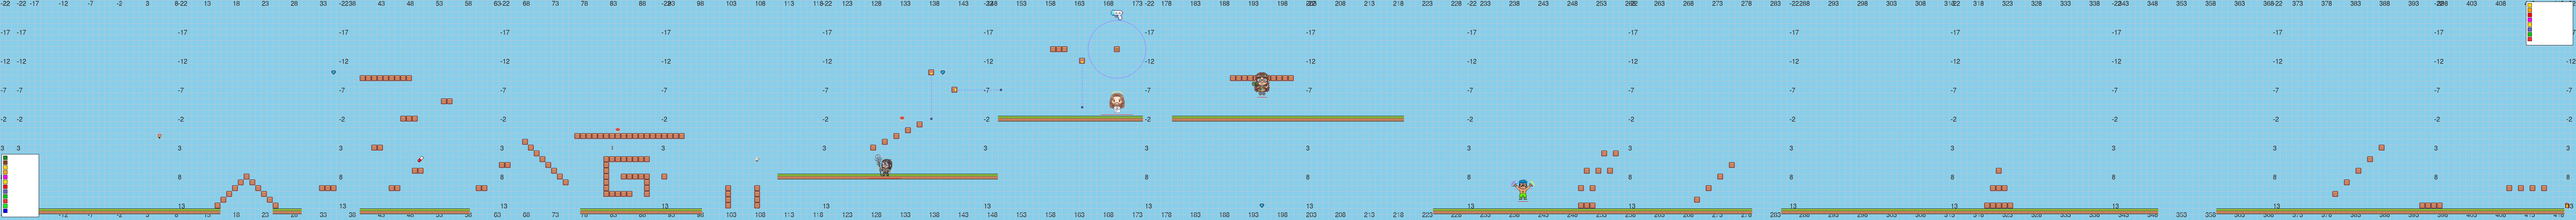
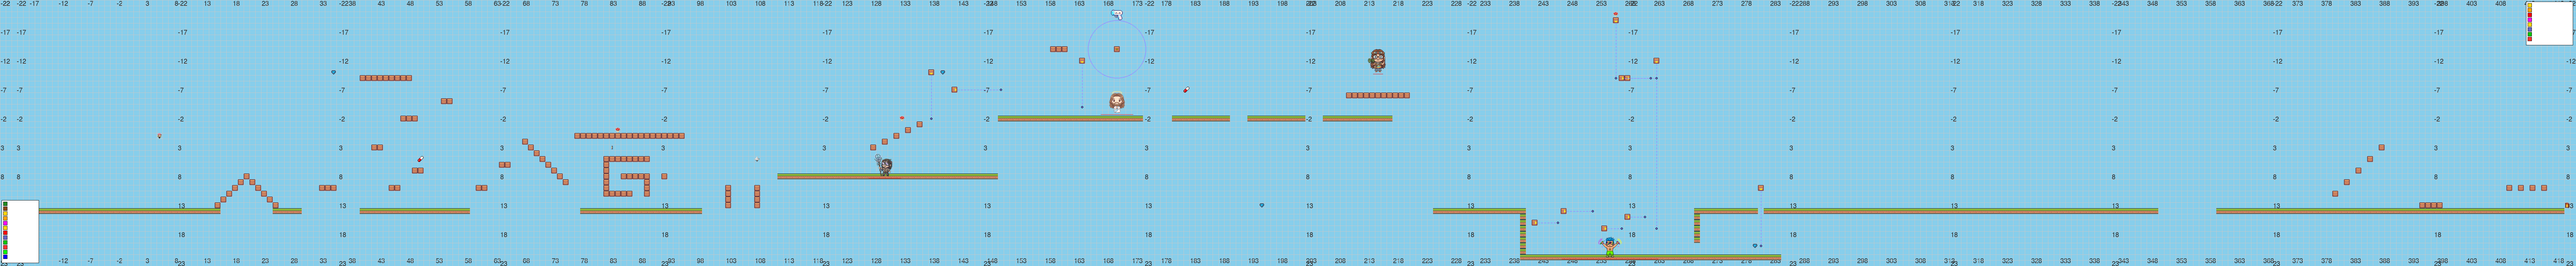
added more to tf

Changed region(s): [[0.0, 0.0, 1.0, 1.0]]

diff --git a/platformer/levels/trancefloor.py b/platformer/levels/trancefloor.py
@@ -4,7 +4,7 @@ level_config = {
     "level_time": 300,  # Time limit in seconds (5 minutes)
     # Player spawn point (optional) - x and y coordinates in grid units
     # If not specified, defaults to PLAYER_START_X, PLAYER_START_Y from settings.py
-    "player_spawn": (120, 1),  # Example: spawn at grid position (5, 1)
+    "player_spawn": (238, 12),  # Example: spawn at grid position (5, 1)
     # Extended grass locations - keeping original and adding more sections
     "grass_locations": [(i, 14) for i in range(-20, 16)]
     + [(i, 14) for i in range(25, 30)]
@@ -12,9 +12,15 @@ level_config = {
     + [(i, 14) for i in range(78, 99)]
     + [(i, 8) for i in range(112, 150)]
     + [(i, -2) for i in range(150, 175)]
-    + [(i, -2) for i in range(180, 220)]
-    + [(i, 14) for i in range(225, 280)]  # New section 3
-    + [(i, 14) for i in range(285, 350)]  # New section 4
+    + [(i, -2) for i in range(180, 190)]
+    + [(i, -2) for i in range(193, 203)]
+    + [(i, -2) for i in range(206, 218)]
+    + [(i, 14) for i in range(225, 240)]
+    + [(240, i) for i in range(14, 22)]
+    + [(i, 22) for i in range(240, 285)]
+    + [(270, i) for i in range(14, 20)]
+    + [(i, 14) for i in range(270, 281)]
+    + [(i, 14) for i in range(282, 350)]
     + [(i, 14) for i in range(360, 420)],  # Final section
     # Extended block locations - original plus new challenging platforming sections
     "block_locations": [
@@ -140,43 +146,24 @@ level_config = {
         (160, -14),
         (161, -14),
         # Hippie Enemy
-        (190, -9),
-        (191, -9),
-        (192, -9),
-        (193, -9),
-        (194, -9),
-        (195, -9),
-        (196, -9),
-        (197, -9),
-        (198, -9),
-        (199, -9),
-        (200, -9),
-        # Section 6 - Complex structure
-        (250, 13),
-        (251, 13),
-        (252, 13),
-        (250, 10),
-        (252, 10),
-        (251, 7),
-        (253, 7),
-        (255, 7),
-        (254, 4),
-        (256, 4),
-        # Section 7 - Moving platform bases
-        (270, 12),
-        (272, 10),
-        (274, 8),
-        (276, 6),
-        # Section 8 - Pyramid structure
-        (320, 13),
-        (321, 13),
-        (322, 13),
-        (323, 13),
-        (324, 13),
-        (321, 10),
-        (322, 10),
-        (323, 10),
-        (322, 7),
+        (210, -6),
+        (211, -6),
+        (212, -6),
+        (213, -6),
+        (214, -6),
+        (215, -6),
+        (216, -6),
+        (217, -6),
+        (218, -6),
+        (219, -6),
+        (220, -6),
+        # Section Macker
+        # (253, 8),
+        # (254, 8),
+        # (265, 15),
+        # (266, 15),
+        # (250, 13),
+        # (251, 13),
         # Section 9 - Final challenge platforms
         (380, 11),
         (382, 9),
@@ -199,9 +186,11 @@ level_config = {
         (35, -10),
         (140, -10),
         (195, 13),
+        (280, 20),
     ],
     "powerup_locations": [
         {"x": 50, "y": 5, "type": 3},
+        {"x": 182, "y": -7, "type": 3},
         {"x": 83, "y": 3, "type": 2},
         {"x": 108, "y": 5, "type": 0},
     ],
@@ -250,8 +239,8 @@ level_config = {
             "can_throw_explosives": False,
         },
         {
-            "x": 195,
-            "y": -8,
+            "x": 215,
+            "y": -12,
             "image": "enemies/trance-hippie.png",
             "speed": 1,
             "patrol_range": 30,
@@ -263,17 +252,18 @@ level_config = {
             "melee_damage": 2,
         },
         {
-            "x": 240,
-            "y": 10,
+            "x": 255,
+            "y": 20,
             "image": "enemies/trance-okf.png",
-            "speed": 1,
-            "patrol_range": 30,
+            "speed": 2,
+            "patrol_range": 300,
             "size_multiplier": 4,
-            "health": 20,
-            "damage": 15,
-            "shoot_range": 30,
-            "chase_range": 10,
-            "melee_damage": 10,
+            "health": 40,
+            "damage": 5,
+            "shoot_range": 0,
+            "chase_range": 100,
+            "melee_damage": 15,
+            "can_throw_explosives": False,
         },
     ],
     # Extended trophy locations - more collectibles
@@ -309,24 +299,6 @@ level_config = {
             "distance": 8,  # Distance to travel (grid units for linear, radius for circular)
             "direction": "vertical",  # "horizontal" or "vertical" (for linear only)
         },
-        # {
-        #     "x": 60,
-        #     "y": 8,
-        #     "platform_type": "grass",
-        #     "movement_type": "linear",
-        #     "speed": 2,
-        #     "distance": 8,
-        #     "direction": "vertical",
-        # },
-        # {
-        #     "x": 100,
-        #     "y": 9,
-        #     "platform_type": "block",
-        #     "movement_type": "linear",
-        #     "speed": 1.5,
-        #     "distance": 15,
-        #     "direction": "horizontal",
-        # },
         {
             "x": 170,
             "y": -14,
@@ -336,19 +308,92 @@ level_config = {
             "distance": 5,  # This acts as radius for circular movement
             "direction": "horizontal",  # Not used for circular
         },
-        # {
-        #     "x": 365,
-        #     "y": 8,
-        #     "platform_type": "block",
-        #     "movement_type": "linear",
-        #     "speed": 2,
-        #     "distance": 12,
-        #     "direction": "horizontal"
-        # },
+        {
+            "x": 258,  # Starting x position (grid units)
+            "y": 15,  # Starting y position (grid units)
+            "platform_type": "block",  # "grass" or "block"
+            "movement_type": "linear",  # "linear" or "circular"
+            "speed": 1,  # Movement speed (pixels per frame)
+            "distance": 3,  # Distance to travel (grid units for linear, radius for circular)
+            "direction": "horizontal",  # "horizontal" or "vertical" (for linear only)
+        },
+        {
+            "x": 254,  # Starting x position (grid units)
+            "y": 17,  # Starting y position (grid units)
+            "platform_type": "block",  # "grass" or "block"
+            "movement_type": "linear",  # "linear" or "circular"
+            "speed": 1,  # Movement speed (pixels per frame)
+            "distance": 3,  # Distance to travel (grid units for linear, radius for circular)
+            "direction": "horizontal",  # "horizontal" or "vertical" (for linear only)
+        },
+        {
+            "x": 247,  # Starting x position (grid units)
+            "y": 14,  # Starting y position (grid units)
+            "platform_type": "block",  # "grass" or "block"
+            "movement_type": "linear",  # "linear" or "circular"
+            "speed": 1,  # Movement speed (pixels per frame)
+            "distance": 5,  # Distance to travel (grid units for linear, radius for circular)
+            "direction": "horizontal",  # "horizontal" or "vertical" (for linear only)
+        },
+        {
+            "x": 242,  # Starting x position (grid units)
+            "y": 16,  # Starting y position (grid units)
+            "platform_type": "block",  # "grass" or "block"
+            "movement_type": "linear",  # "linear" or "circular"
+            "speed": 1,  # Movement speed (pixels per frame)
+            "distance": 4,  # Distance to travel (grid units for linear, radius for circular)
+            "direction": "horizontal",  # "horizontal" or "vertical" (for linear only)
+        },
+        {
+            "x": 281,  # Starting x position (grid units)
+            "y": 10,  # Starting y position (grid units)
+            "platform_type": "block",  # "grass" or "block"
+            "movement_type": "linear",  # "linear" or "circular"
+            "speed": 2,  # Movement speed (pixels per frame)
+            "distance": 10,  # Distance to travel (grid units for linear, radius for circular)
+            "direction": "vertical",  # "horizontal" or "vertical" (for linear only)
+        },
+        {
+            "x": 263,  # Starting x position (grid units)
+            "y": -12,  # Starting y position (grid units)
+            "platform_type": "block",  # "grass" or "block"
+            "movement_type": "linear",  # "linear" or "circular"
+            "speed": 1,  # Movement speed (pixels per frame)
+            "distance": 29,  # Distance to travel (grid units for linear, radius for circular)
+            "direction": "vertical",  # "horizontal" or "vertical" (for linear only)
+        },
+        {
+            "x": 258,  # Starting x position (grid units)
+            "y": -9,  # Starting y position (grid units)
+            "platform_type": "block",  # "grass" or "block"
+            "movement_type": "linear",  # "linear" or "circular"
+            "speed": 1,  # Movement speed (pixels per frame)
+            "distance": 5,  # Distance to travel (grid units for linear, radius for circular)
+            "direction": "horizontal",  # "horizontal" or "vertical" (for linear only)
+        },
+        {
+            "x": 257,  # Starting x position (grid units)
+            "y": -9,  # Starting y position (grid units)
+            "platform_type": "block",  # "grass" or "block"
+            "movement_type": "linear",  # "linear" or "circular"
+            "speed": 1,  # Movement speed (pixels per frame)
+            "distance": 5,  # Distance to travel (grid units for linear, radius for circular)
+            "direction": "horizontal",  # "horizontal" or "vertical" (for linear only)
+        },
+        {
+            "x": 256,  # Starting x position (grid units)
+            "y": -19,  # Starting y position (grid units)
+            "platform_type": "block",  # "grass" or "block"
+            "movement_type": "linear",  # "linear" or "circular"
+            "speed": 1,  # Movement speed (pixels per frame)
+            "distance": 10,  # Distance to travel (grid units for linear, radius for circular)
+            "direction": "vertical",  # "horizontal" or "vertical" (for linear only)
+        },
     ],
     "trophy_locations": [
         (84, 0),
         (133, -2),
+        (256, -20),
     ],
     "trophy_image": "mushroom.png",
     "exit_location": (420, 13),

diff --git a/platformer/enemies.py b/platformer/enemies.py
@@ -147,16 +147,16 @@ class Enemy(pg.sprite.Sprite):
             self.rect.x -= self.speed
             self.direction = -1
 
-        # Check for horizontal collisions with platforms
+        # Check for horizontal collisions with platforms (prevents climbing vertical walls)
         hits = pg.sprite.spritecollide(self, self.world.platforms, False)
         for hit in hits:
-            if self.rect.right > hit.rect.left and self.rect.left < hit.rect.right:
-                if player.rect.centerx > self.rect.centerx:  # Moving right
-                    self.rect.right = hit.rect.left
-                elif player.rect.centerx < self.rect.centerx:  # Moving left
-                    self.rect.left = hit.rect.right
-
-        # Ignore vertical movement
+            # Check if this is a vertical wall collision (not the platform we're standing on)
+            # If enemy moved right and hit something on the right side
+            if move_right and self.rect.right > hit.rect.left and self.rect.left < hit.rect.left:
+                self.rect.right = hit.rect.left
+            # If enemy moved left and hit something on the left side
+            elif move_left and self.rect.left < hit.rect.right and self.rect.right > hit.rect.right:
+                self.rect.left = hit.rect.right
 
     def shoot_at_player(self, player):
         if self.shoot_timer == 0:  # Only shoot if the timer is 0
